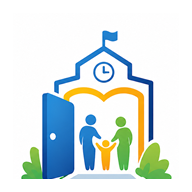
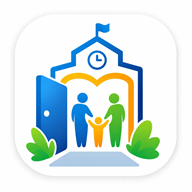
deploy: atualizar SCP Escolar

diff --git a/public/sw.js b/public/sw.js
@@ -1,4 +1,4 @@
-const CACHE='porta-aberta-shell-v10';
+const CACHE='porta-aberta-shell-v11';
 const SHELL=['./assets/app.css','./assets/pwa.js','./assets/porta-aberta-pwa-192.png','./assets/porta-aberta-pwa-512.png','./assets/login-school-bg.webp','./assets/porta-aberta-logo.jpg','./manifest.webmanifest'];
 self.addEventListener('message',event=>{if(event.data&&event.data.type==='SKIP_WAITING')self.skipWaiting()});
 self.addEventListener('install',event=>event.waitUntil(caches.open(CACHE).then(cache=>cache.addAll(SHELL)).then(()=>self.skipWaiting())));

diff --git a/includes/bootstrap.php b/includes/bootstrap.php
@@ -132,7 +132,7 @@ function layout_header(string $title): void {
     $flash = $_SESSION['flash'] ?? null; unset($_SESSION['flash']);
     $classes = trim(app_theme_class() . ($title==='Entrar' ? ' login-page' : ''));
     $bodyClass=' class="'.e($classes).'"';
-    echo '<!doctype html><html lang="'.e(current_locale()==='en'?'en':'pt-BR').'"><head><meta charset="utf-8"><meta name="viewport" content="width=device-width,initial-scale=1,viewport-fit=cover"><meta name="color-scheme" content="light"><meta name="theme-color" content="#1356A2"><meta name="mobile-web-app-capable" content="yes"><meta name="apple-mobile-web-app-capable" content="yes"><meta name="apple-mobile-web-app-status-bar-style" content="black-translucent"><meta name="apple-mobile-web-app-title" content="'.e(app_name()).'"><title>'.e($title).' · '.e(app_name()).'</title><link rel="manifest" href="'.e(url('manifest.webmanifest')).'"><link rel="icon" href="'.e(url('assets/porta-aberta-icon-512.png')).'" type="image/png"><link rel="apple-touch-icon" href="'.e(url('assets/porta-aberta-icon-512.png')).'"><link href="https://cdn.jsdelivr.net/npm/bootstrap@5.3.3/dist/css/bootstrap.min.css" rel="stylesheet"><link rel="stylesheet" href="'.e(asset_url('assets/app.css')).'"></head><body'.$bodyClass.'>';
+    echo '<!doctype html><html lang="'.e(current_locale()==='en'?'en':'pt-BR').'"><head><meta charset="utf-8"><meta name="viewport" content="width=device-width,initial-scale=1,viewport-fit=cover"><meta name="color-scheme" content="light"><meta name="theme-color" content="#1356A2"><meta name="mobile-web-app-capable" content="yes"><meta name="apple-mobile-web-app-capable" content="yes"><meta name="apple-mobile-web-app-status-bar-style" content="black-translucent"><meta name="apple-mobile-web-app-title" content="'.e(app_name()).'"><title>'.e($title).' · '.e(app_name()).'</title><link rel="manifest" href="'.e(url('manifest.webmanifest')).'"><link rel="icon" href="'.e(url('assets/porta-aberta-pwa-512.png')).'" type="image/png"><link rel="apple-touch-icon" href="'.e(url('assets/porta-aberta-pwa-512.png')).'"><link href="https://cdn.jsdelivr.net/npm/bootstrap@5.3.3/dist/css/bootstrap.min.css" rel="stylesheet"><link rel="stylesheet" href="'.e(asset_url('assets/app.css')).'"></head><body'.$bodyClass.'>';
     if (!empty($_SESSION['user_id']) || !empty($_SESSION['responsavel_id'])) echo '<nav class="navbar navbar-dark bg-primary"><div class="container"><a class="navbar-brand brand-lockup" href="'.e(url(portal_home())).'"><img src="'.e(asset_url('assets/porta-aberta-logo.jpg')).'" alt="'.e(app_name()).'"><span>'.e(app_name()).'</span></a><div class="d-flex gap-2 align-items-center"><a class="btn btn-outline-light btn-sm lang-button" href="'.e(lang_url(current_locale()==='en'?'pt':'en')).'">'.e(current_locale()==='en'?'PT':'EN').'</a><a class="btn btn-outline-light btn-sm logout-button" href="'.e(url('logout.php')).'">'.e(t('logout')).'</a><button class="mobile-menu-button" type="button" aria-label="Abrir menu" aria-controls="app-menu" aria-expanded="false"><span></span><span></span><span></span></button></div></div></nav>'.portal_nav_html();
     echo '<main class="container pb-5">'; if ($flash) echo '<div class="alert alert-'.e($flash[1]).'">'.e($flash[0]).'</div>';
 }
